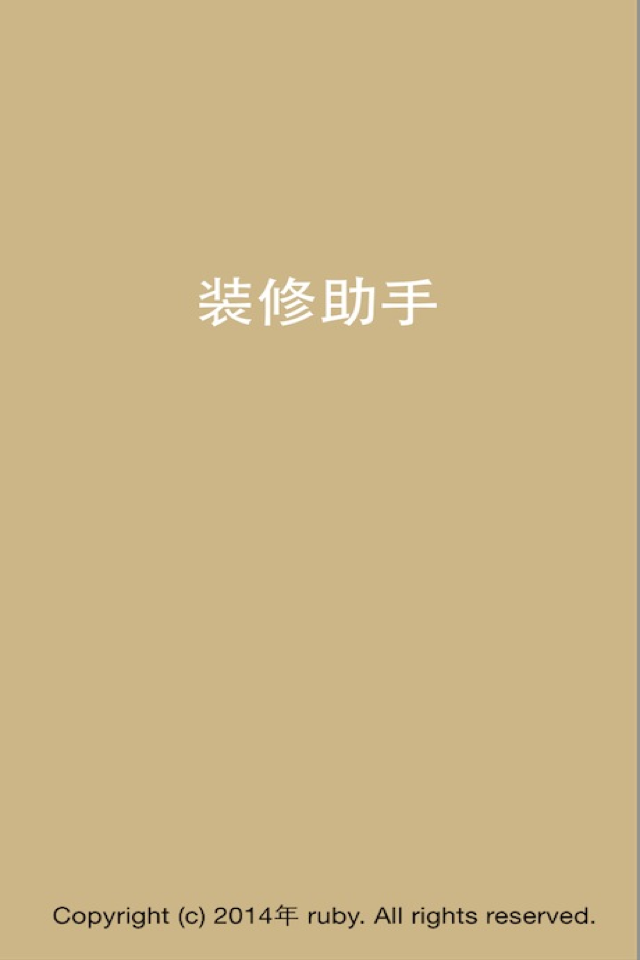
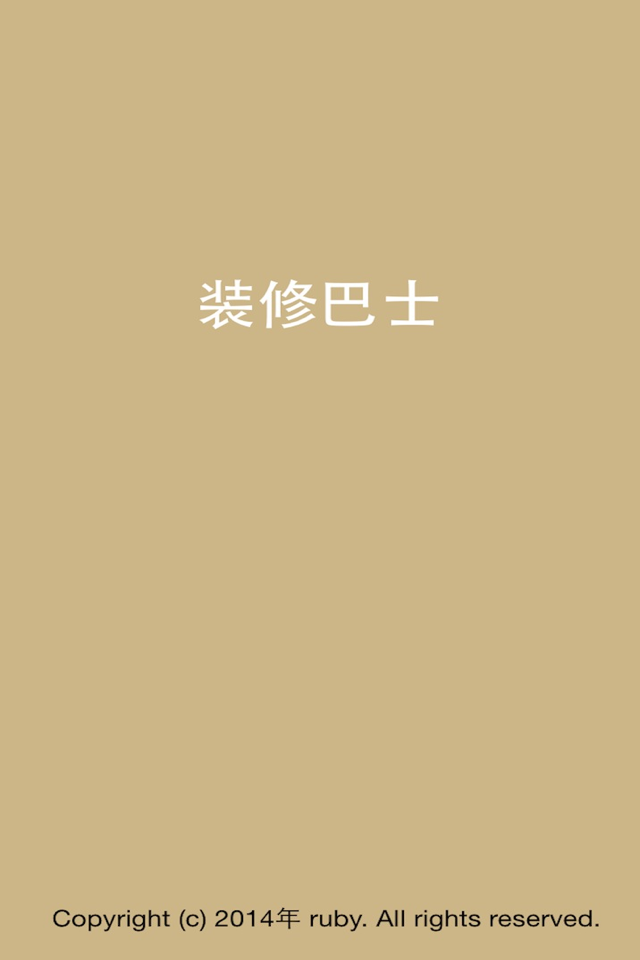
change App name to DecorateBus

Changed region(s): [[0.9688, 0.0, 1.0, 1.0], [0.0625, 0.9375, 0.9375, 0.9688], [0.3125, 0.2812, 0.6875, 0.3438]]

diff --git a/DecorationSteward/AboutMeViewController.swift b/DecorationSteward/AboutMeViewController.swift
@@ -81,7 +81,7 @@ class AboutMeViewController: UIViewController
         copyrightLabel.font = UIFont.systemFontOfSize(12.0);
         copyrightLabel.backgroundColor = UIColor.clearColor();
         copyrightLabel.textColor = UIColor(red: 15.0/255.0, green: 15.0/255.0, blue: 15.0/255.0, alpha: 1.0);
-        copyrightLabel.text = "Copyright ©｜装修助手,版权所有";
+        copyrightLabel.text = "Copyright ©｜装修巴士,版权所有";
         
         self.view.addSubview(emailLabel);
         self.view.addSubview(copyrightLabel);

diff --git a/DecorationSteward/SettingViewController.swift b/DecorationSteward/SettingViewController.swift
@@ -12,7 +12,7 @@ class SettingViewController: UIViewController, UITableViewDelegate, UITableViewD
 
     @IBOutlet weak var settingTableView: UITableView!
     
-    var settingItems = ["修改类别", "提交反馈", "关于装修助手"]
+    var settingItems = ["修改类别", "提交反馈", "关于装修巴士"]
     var cellReuseIdentifier: String = "settingItemCell"
     
     override func viewDidLoad() {
